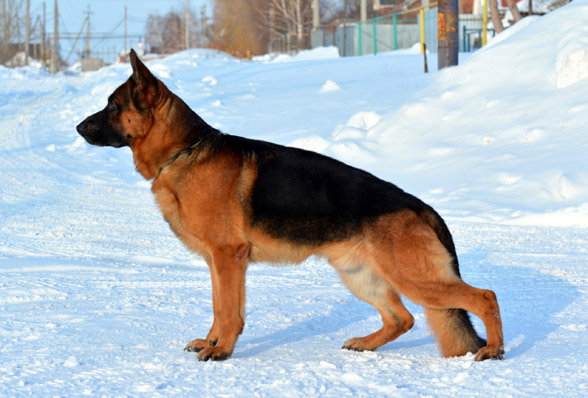
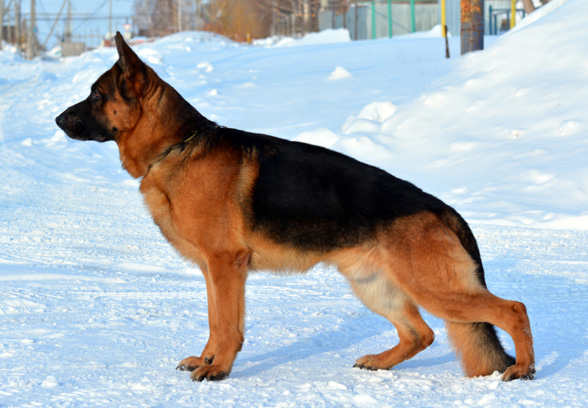
Update Alex title photo

diff --git a/males.htm b/males.htm
@@ -171,7 +171,7 @@
 			</ul>
 
 			<p>ОКД-1, ЗКС-1; HD-A, ED-0; Kkl 1</p>
-			<img src="/img/photos/aleks/main-new3.jpg" width="588" height="398" alt="Фотография Ersteshrit Aleks" />
+			<img src="/img/photos/aleks/main-new3.jpg" width="588" height="408" alt="Фотография Ersteshrit Aleks" />
 			<p><a href="aleks-photos.htm">Фотографии</a> | <a href="aleks-video.htm">Видео</a> | <a href="aleks-shows.htm">Результаты выставок</a></p>
 
 			<p>Родословная: <a href="http://www.pedigreedatabase.com/german_shepherd_dog/dog.html?id=2466950-ersteshrit-aleks" target="_blank">Pedigree Database</a>,<br/><a href="http://database.gsdog.ru/dog.php?screen=1&amp;id=28512" target="_blank">GSDOG</a></p>
